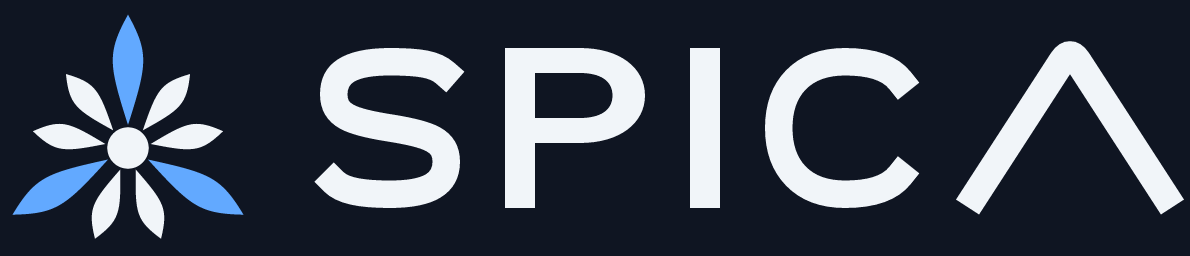
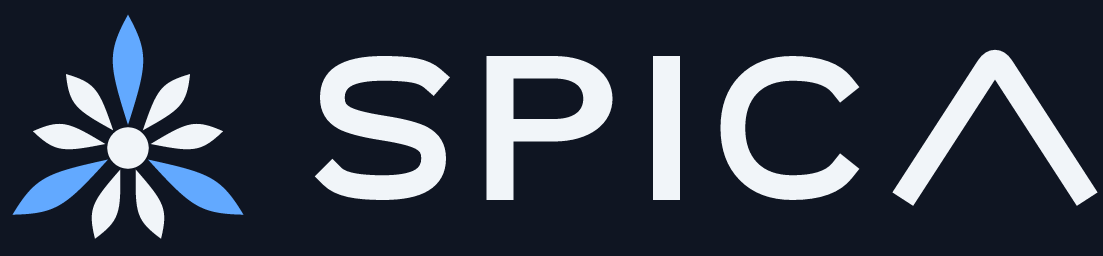
Add the font-to-path wordmark tool and descender support
wordmark:from-font rewrites src/wordmark.ts from any static TTF/OTF,
one filled path per letter with its centre for the splash sweep. Wordmarks
can now hang below the baseline (descent), and the banner uses the
cap-height ratio the candidates were reviewed at (0.5625 of the mark box).
The placeholder wordmark stays until the typeface is chosen.

Claude-Session: https://claude.ai/code/session_0199SVemh4SnHhT6Pqa3JUKZ

diff --git a/packages/brand/scripts/wordmark-from-font.ts b/packages/brand/scripts/wordmark-from-font.ts
@@ -1,0 +1,126 @@
+/**
+ * 把字体里的「Spica」转成路径，重写 src/wordmark.ts。运行时不再依赖字体文件。
+ *
+ *   npm run wordmark:from-font -w @spica/brand -- <字体.ttf> [字距，千分之一字号，默认 0]
+ *
+ * 只吃静态字重的 TTF / OTF（可变字体先用 fontTools 的 instancer 取出需要的字重）。
+ * 坐标约定：大写字母高 = 64 单位，基线在 y = 64，下伸部分（p 的竖笔）落在 64 以下。
+ */
+import opentype, { type PathCommand } from 'opentype.js';
+import { readFileSync, writeFileSync } from 'node:fs';
+import path from 'node:path';
+import { fileURLToPath } from 'node:url';
+
+const TEXT = 'Spica';
+const CAP = 64;
+
+const [fontFile, trackingArg = '0'] = process.argv.slice(2);
+if (!fontFile) {
+  console.error('用法：node scripts/wordmark-from-font.ts <字体.ttf> [字距]');
+  process.exit(1);
+}
+
+const r = (n: number) => String(Math.round(n * 100) / 100);
+function toD(cmds: PathCommand[]): string {
+  return cmds
+    .map((c) => {
+      switch (c.type) {
+        case 'M': return `M${r(c.x!)} ${r(c.y!)}`;
+        case 'L': return `L${r(c.x!)} ${r(c.y!)}`;
+        case 'Q': return `Q${r(c.x1!)} ${r(c.y1!)} ${r(c.x!)} ${r(c.y!)}`;
+        case 'C': return `C${r(c.x1!)} ${r(c.y1!)} ${r(c.x2!)} ${r(c.y2!)} ${r(c.x!)} ${r(c.y!)}`;
+        default: return 'Z';
+      }
+    })
+    .join('');
+}
+
+const buf = readFileSync(fontFile);
+const font = opentype.parse(buf.buffer.slice(buf.byteOffset, buf.byteOffset + buf.byteLength) as ArrayBuffer);
+const capUnits = font.tables.os2?.sCapHeight;
+if (!capUnits) throw new Error('字体没有大写高度（OS/2 sCapHeight）');
+const size = (CAP * font.unitsPerEm) / capUnits;
+const sc = size / font.unitsPerEm;
+const tracking = (Number(trackingArg) / 1000) * size;
+
+// 逐字取形（不走 OpenType 替换表，避免连字），加字距对
+let x = 0;
+let prev: ReturnType<typeof font.charToGlyph> | null = null;
+let maxY = CAP;
+let minX = Infinity;
+let maxX = -Infinity;
+const letters: Array<{ d: string; cx: number }> = [];
+for (const ch of TEXT) {
+  const g = font.charToGlyph(ch);
+  if (!g || g.index === 0) throw new Error(`字体缺字：${ch}`);
+  if (prev) x += font.getKerningValue(prev, g) * sc;
+  const cmds = g.getPath(x, CAP, size).commands;
+  for (const c of cmds) {
+    for (const [px, py] of [[c.x, c.y], [c.x1, c.y1], [c.x2, c.y2]] as const) {
+      if (px === undefined || py === undefined) continue;
+      minX = Math.min(minX, px);
+      maxX = Math.max(maxX, px);
+      maxY = Math.max(maxY, py);
+    }
+  }
+  const adv = g.advanceWidth * sc;
+  letters.push({ d: toD(cmds), cx: x + adv / 2 });
+  x += adv + tracking;
+  prev = g;
+}
+
+// 左边贴齐 0：整体平移
+const shift = -minX;
+const shiftD = (d: string) => d.replace(/([MLQC])([^MLQCZ]*)/g, (_m, cmd: string, nums: string) => {
+  const v = nums.trim().split(/[\s,]+/).map(Number);
+  for (let i = 0; i < v.length; i += 2) v[i] = (v[i] ?? 0) + shift;
+  return cmd + v.map(r).join(' ');
+});
+const width = Math.ceil(maxX + shift + 1);
+const descent = Math.ceil(maxY - CAP + 1);
+const name = font.names.fullName?.en ?? font.names.windows?.fullName?.en ?? path.basename(fontFile);
+const version = font.names.version?.en ?? font.names.windows?.version?.en ?? '';
+
+const shapes = letters
+  .map((l, i) => `    // ${TEXT[i]}\n    { kind: 'fill', cx: ${r(l.cx + shift)}, d: '${shiftD(l.d)}' },`)
+  .join('\n');
+
+const out = `/**
+ * 字标 Spica（首字母大写），由 scripts/wordmark-from-font.ts 从字体转成路径生成，不要手改。
+ * 字体：${name}${version ? `（${version}）` : ''}
+ * 运行时不依赖字体文件。换字标：换字体文件重新跑一遍脚本。
+ */
+
+export interface WordmarkShape {
+  d: string;
+  /** 这个字母的水平中心（字标自身坐标）；开机画面逐字点亮时用 */
+  cx: number;
+  /** fill：填充；stroke：按 strokeWidth 描边（方头、尖角） */
+  kind: 'fill' | 'stroke';
+  strokeWidth?: number;
+  evenOdd?: boolean;
+}
+
+export interface Wordmark {
+  /** 画框宽（字标自身坐标） */
+  width: number;
+  /** 大写字母高（= 基线的 y）；每个 shape 是一个字母，按书写顺序排 */
+  height: number;
+  /** 基线以下的下伸深度（p 的竖笔） */
+  descent: number;
+  shapes: readonly WordmarkShape[];
+}
+
+export const WORDMARK: Wordmark = Object.freeze({
+  width: ${width},
+  height: ${CAP},
+  descent: ${descent},
+  shapes: Object.freeze([
+${shapes}
+  ] satisfies WordmarkShape[]),
+});
+`;
+
+const target = path.resolve(path.dirname(fileURLToPath(import.meta.url)), '../src/wordmark.ts');
+writeFileSync(target, out);
+console.log(`已写入 ${path.relative(process.cwd(), target)}：${name}，宽 ${width}，下伸 ${descent}`);

diff --git a/packages/brand/src/svg.ts b/packages/brand/src/svg.ts
@@ -90,23 +90,25 @@ export function wordmarkBody(ink = 'currentColor', wm: Wordmark = WORDMARK): str
 /** 字标 SVG */
 export function wordmarkSvg(opts: { ink?: string; height?: number; className?: string; title?: string } = {}): string {
   const wm = WORDMARK;
-  const size = opts.height ? ` width="${fmt((opts.height * wm.width) / wm.height)}" height="${opts.height}"` : '';
+  const fullH = wm.height + wm.descent;
+  const size = opts.height ? ` width="${fmt((opts.height * wm.width) / fullH)}" height="${opts.height}"` : '';
   const cls = opts.className ? ` class="${esc(opts.className)}"` : '';
   const { attr, el } = a11y(opts.title);
-  return `<svg xmlns="http://www.w3.org/2000/svg" viewBox="0 0 ${wm.width} ${wm.height}"${size}${cls}${attr}>${el}${wordmarkBody(opts.ink)}</svg>`;
+  return `<svg xmlns="http://www.w3.org/2000/svg" viewBox="0 0 ${wm.width} ${fullH}"${size}${cls}${attr}>${el}${wordmarkBody(opts.ink)}</svg>`;
 }
 
 /**
- * 横标排版：花标 64 见方在左，间距 16，字标缩到 40 高、竖向居中。
+ * 横标排版：花标 64 见方在左，间距 16，字标大写高 36、在花标框里竖向居中。
  * 返回画框尺寸与字标的放置变换，React 版和字符串版共用。
  */
 export const BANNER_LAYOUT = (() => {
   const gap = 16;
-  const wordHeight = 40;
+  const wordHeight = 36; // 大写高 = 花标框高 × 0.5625（定稿比较图都按这个比例）
   const wordScale = wordHeight / WORDMARK.height;
-  const height = MARK_VIEWBOX;
   const wordX = MARK_VIEWBOX + gap;
-  const wordY = (height - wordHeight) / 2;
+  const wordY = (MARK_VIEWBOX - wordHeight) / 2; // 大写字母在花标框里竖向居中
+  // 下伸部分（p 的竖笔）超出花标框时，画框往下加高
+  const height = Math.max(MARK_VIEWBOX, Math.ceil(wordY + (WORDMARK.height + WORDMARK.descent) * wordScale));
   const width = wordX + WORDMARK.width * wordScale;
   return Object.freeze({
     width,
@@ -119,7 +121,7 @@ export const BANNER_LAYOUT = (() => {
 export function bannerSvg(opts: { accent?: string; ink?: string; height?: number; background?: string | null; title?: string } = {}): string {
   const L = BANNER_LAYOUT;
   const size = opts.height ? ` width="${fmt((opts.height * L.width) / L.height)}" height="${opts.height}"` : '';
-  const bg = opts.background ? `<rect width="${fmt(L.width)}" height="${L.height}" fill="${opts.background}"/>` : '';
+  const bg = opts.background ? `<rect width="${fmt(L.width)}" height="${fmt(L.height)}" fill="${opts.background}"/>` : '';
   const { attr, el } = a11y(opts.title);
-  return `<svg xmlns="http://www.w3.org/2000/svg" viewBox="0 0 ${fmt(L.width)} ${L.height}"${size}${attr}>${el}${bg}${markBody(opts)}<g transform="${L.wordTransform}">${wordmarkBody(opts.ink)}</g></svg>`;
+  return `<svg xmlns="http://www.w3.org/2000/svg" viewBox="0 0 ${fmt(L.width)} ${fmt(L.height)}"${size}${attr}>${el}${bg}${markBody(opts)}<g transform="${L.wordTransform}">${wordmarkBody(opts.ink)}</g></svg>`;
 }

diff --git a/packages/brand/src/react/SpicaWordmark.tsx b/packages/brand/src/react/SpicaWordmark.tsx
@@ -39,9 +39,9 @@ export function SpicaWordmark({ height, title, className, style }: SpicaWordmark
   return (
     <svg
       xmlns="http://www.w3.org/2000/svg"
-      viewBox={`0 0 ${WORDMARK.width} ${WORDMARK.height}`}
+      viewBox={`0 0 ${WORDMARK.width} ${WORDMARK.height + WORDMARK.descent}`}
       height={height}
-      width={height ? (height * WORDMARK.width) / WORDMARK.height : undefined}
+      width={height ? (height * WORDMARK.width) / (WORDMARK.height + WORDMARK.descent) : undefined}
       className={className ? `spica-wordmark ${className}` : 'spica-wordmark'}
       style={style}
       role={title ? 'img' : undefined}
@@ -70,11 +70,11 @@ export function SpicaBanner({ height, title = 'Spica', className, style, ...mark
   return (
     <span
       className={className ? `spica-banner ${className}` : 'spica-banner'}
-      style={{ display: 'inline-flex', alignItems: 'center', height, aspectRatio: `${fmt(L.width)} / ${L.height}`, ...style }}
+      style={{ display: 'inline-flex', alignItems: 'center', height, aspectRatio: `${fmt(L.width)} / ${fmt(L.height)}`, ...style }}
       role="img"
       aria-label={title}
     >
-      <svg viewBox={`0 0 ${fmt(L.width)} ${L.height}`} height="100%" width="100%" aria-hidden="true" style={{ overflow: 'visible' }}>
+      <svg viewBox={`0 0 ${fmt(L.width)} ${fmt(L.height)}`} height="100%" width="100%" aria-hidden="true" style={{ overflow: 'visible' }}>
         {/* 嵌套 svg：宽高按父画框的单位算，正好占 64 见方 */}
         <SpicaMark size={MARK_VIEWBOX} {...mark} />
         <g transform={L.wordTransform}>

diff --git a/packages/brand/scripts/build.ts b/packages/brand/scripts/build.ts
@@ -14,7 +14,7 @@ import { Resvg } from '@resvg/resvg-js';
 import { mkdirSync, readdirSync, rmSync, writeFileSync } from 'node:fs';
 import path from 'node:path';
 import { fileURLToPath } from 'node:url';
-import { bannerSvg, markSvg, taskbarSvg, tileIconSvg, wordmarkSvg } from '../src/svg.ts';
+import { BANNER_LAYOUT, bannerSvg, markSvg, taskbarSvg, tileIconSvg, wordmarkSvg } from '../src/svg.ts';
 import { BRAND_COLORS } from '../src/tokens.ts';
 import { buildIco } from './ico.ts';
 
@@ -25,8 +25,8 @@ const ICON_SIZES = [16, 24, 32, 48, 64, 128, 256, 512, 1024] as const;
 const ICO_SIZES = [16, 24, 32, 48, 64, 128, 256] as const;
 /** 窗口图标兜底位图的边长 */
 const WIN_ICON_SIZE = 256;
-/** 横标位图倍率（64 高 × 4 = 256 高） */
-const BANNER_HEIGHT = 256;
+/** 横标位图倍率（画框 × 4，64 高的横标出 256 高） */
+const BANNER_SCALE = 4;
 
 const { dark, light } = BRAND_COLORS;
 
@@ -60,8 +60,7 @@ function rasterFiles(): Record<string, Uint8Array> {
   // 横标位图：带底色，宣传 / 文档用
   for (const [name, c] of [['dark', dark], ['light', light]] as const) {
     const svg = bannerSvg({ ink: c.ink, accent: c.accent, background: c.background });
-    const width = Math.round((BANNER_HEIGHT * Number(svg.match(/viewBox="0 0 ([\d.]+) 64"/)?.[1] ?? 0)) / 64);
-    out[`spica-banner-${name}.png`] = raster(svg, width);
+    out[`spica-banner-${name}.png`] = raster(svg, Math.round(BANNER_LAYOUT.width * BANNER_SCALE));
   }
   return out;
 }

diff --git a/packages/brand/scripts/opentype.d.ts b/packages/brand/scripts/opentype.d.ts
@@ -1,0 +1,31 @@
+// opentype.js 2.0 没有自带类型；这里只声明 wordmark-from-font.ts 用到的部分。
+declare module 'opentype.js' {
+  export interface PathCommand {
+    type: 'M' | 'L' | 'Q' | 'C' | 'Z';
+    x?: number;
+    y?: number;
+    x1?: number;
+    y1?: number;
+    x2?: number;
+    y2?: number;
+  }
+  export interface Glyph {
+    index: number;
+    advanceWidth: number;
+    getPath(x: number, y: number, fontSize: number): { commands: PathCommand[] };
+  }
+  export interface Font {
+    unitsPerEm: number;
+    names: {
+      fullName?: Record<string, string>;
+      version?: Record<string, string>;
+      windows?: { fullName?: Record<string, string>; version?: Record<string, string> };
+    };
+    tables: { os2?: { sCapHeight?: number } };
+    charToGlyph(ch: string): Glyph;
+    getKerningValue(left: Glyph, right: Glyph): number;
+  }
+  export function parse(buffer: ArrayBuffer): Font;
+  const opentype: { parse: typeof parse };
+  export default opentype;
+}

diff --git a/packages/brand/src/wordmark.ts b/packages/brand/src/wordmark.ts
@@ -17,15 +17,19 @@ export interface WordmarkShape {
 }
 
 export interface Wordmark {
-  /** 画框宽高（字标自身坐标）；height 即大写字母高度。每个 shape 是一个字母，按书写顺序排 */
+  /** 画框宽（字标自身坐标） */
   width: number;
+  /** 大写字母高（= 基线的 y）；每个 shape 是一个字母，按书写顺序排 */
   height: number;
+  /** 基线以下的下伸深度（p 的竖笔） */
+  descent: number;
   shapes: readonly WordmarkShape[];
 }
 
 export const WORDMARK: Wordmark = Object.freeze({
   width: 348,
   height: 64,
+  descent: 0,
   shapes: Object.freeze([
     // S
     {
